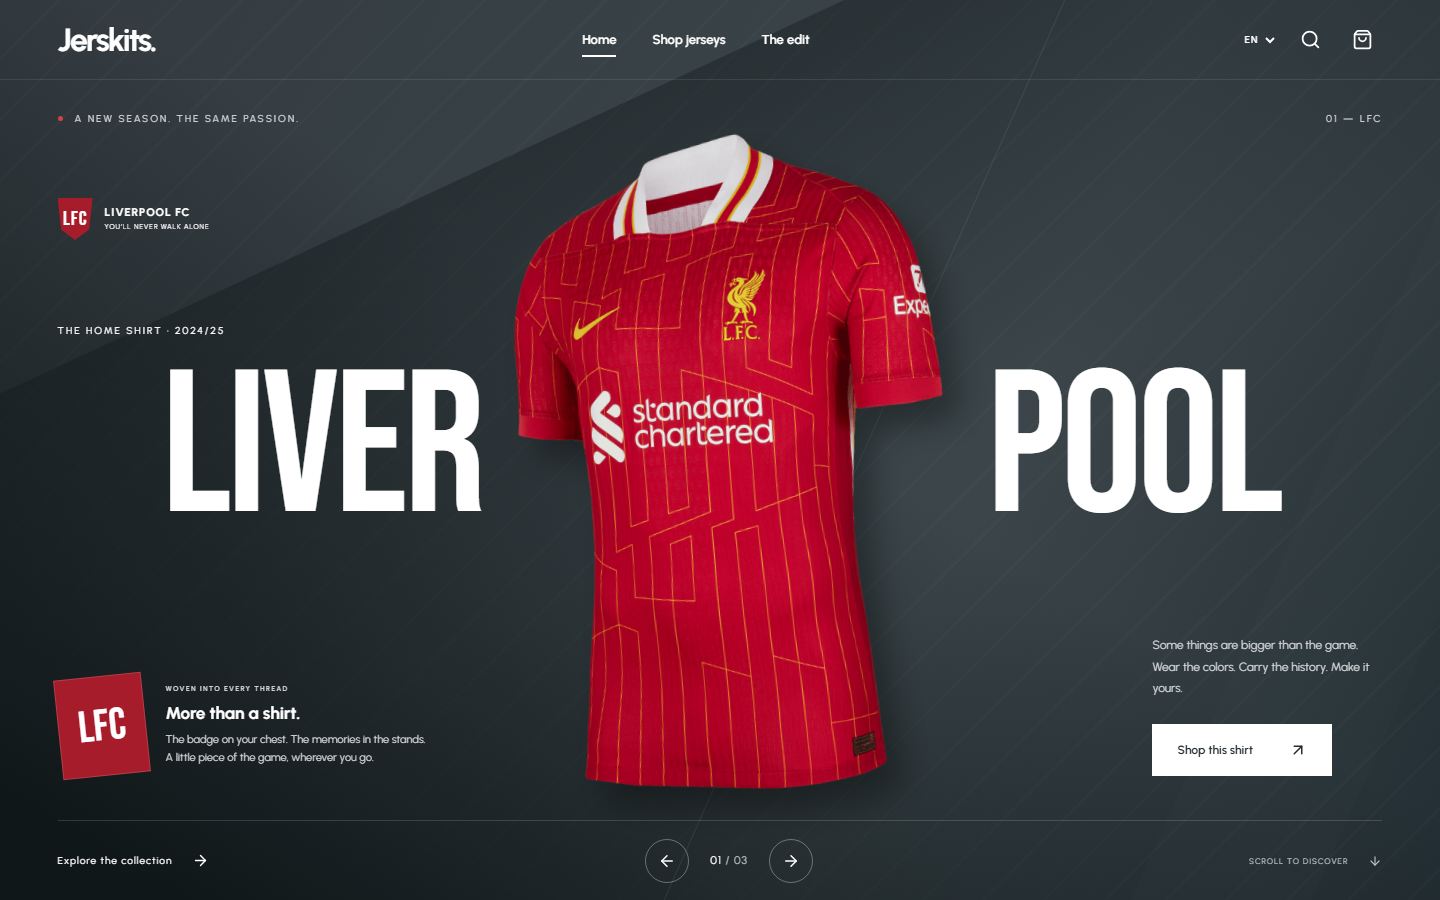
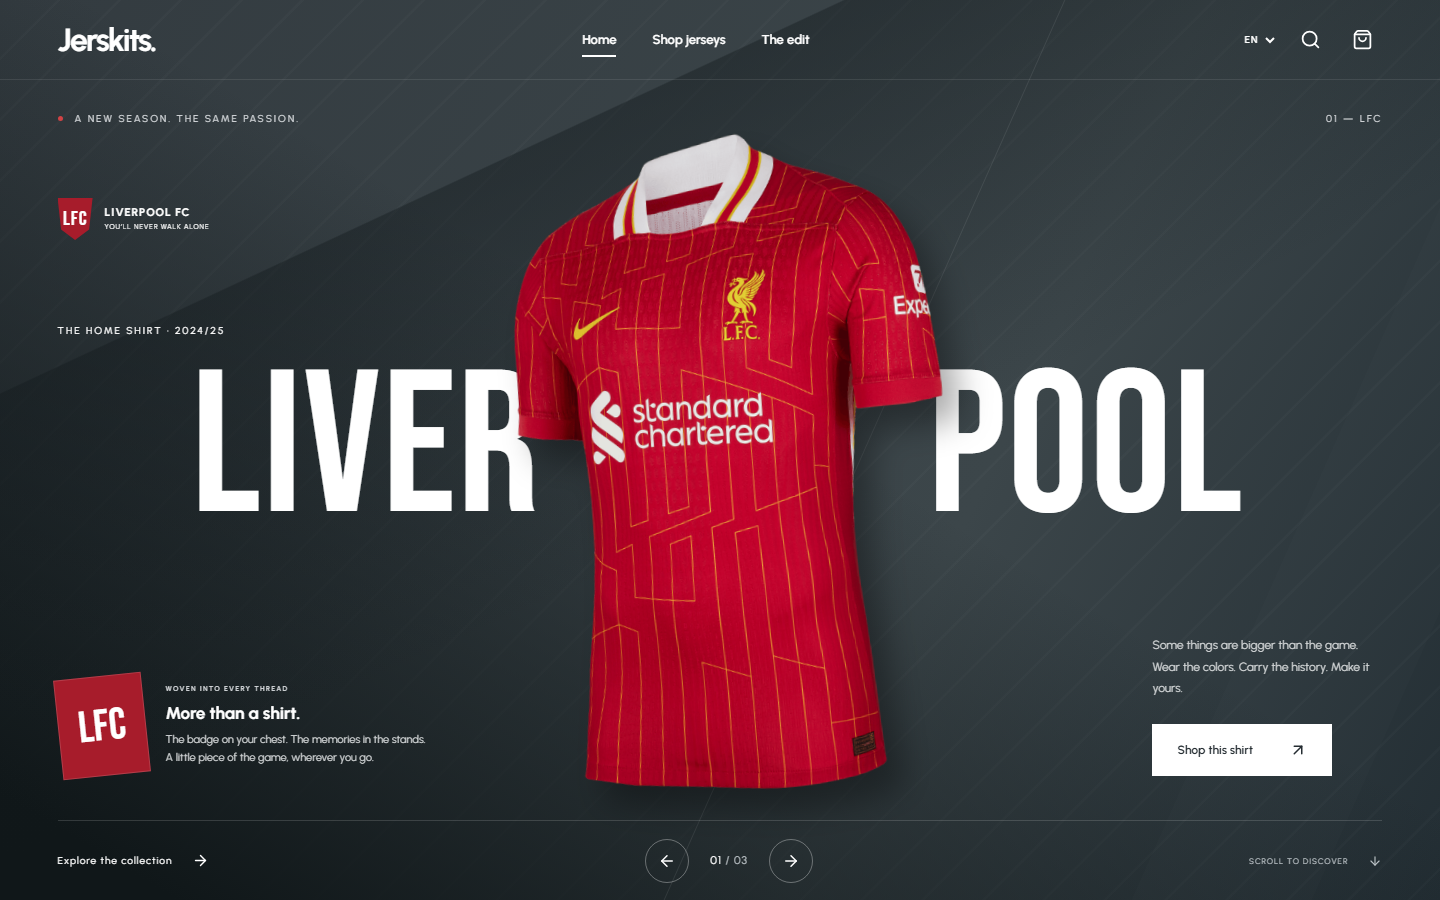
improve(hero): tuck team names behind the shirt sleeves

Changed region(s): [[0.0938, 0.4044, 0.375, 0.5911], [0.625, 0.4044, 0.9062, 0.5911]]

diff --git a/tests/hero-layout.spec.ts b/tests/hero-layout.spec.ts
@@ -21,12 +21,22 @@ async function visibleComposition(page: Page, team: string) {
         range.selectNodeContents(node);
         const rect = range.getBoundingClientRect();
         if (rect.width && rect.height) {
+          const start = node.textContent.search(/\S/);
+          const end = node.textContent.trimEnd().length;
+          range.setStart(node, start);
+          range.setEnd(node, start + 1);
+          const firstLetterWidth = range.getBoundingClientRect().width;
+          range.setStart(node, end - 1);
+          range.setEnd(node, end);
+          const lastLetterWidth = range.getBoundingClientRect().width;
           words.push({
             text: node.textContent.trim(),
             left: rect.left,
             right: rect.right,
             top: rect.top,
             bottom: rect.bottom,
+            firstLetterWidth,
+            lastLetterWidth,
           });
         }
       }
@@ -78,7 +88,7 @@ async function visibleComposition(page: Page, team: string) {
   );
 }
 
-test("a guest can read both complete name blocks beside every featured shirt", async ({
+test("a guest recognizes name blocks tucked closely against each featured shirt", async ({
   page,
 }) => {
   await page.emulateMedia({ reducedMotion: "reduce" });
@@ -98,14 +108,19 @@ test("a guest can read both complete name blocks beside every featured shirt", a
       const { words, shirt } = await visibleComposition(page, team);
       expect(words.map((word) => word.text)).toEqual(parts);
       expect(words[0].left).toBeGreaterThanOrEqual(0);
-      expect(
-        words[0].right,
-        `${team}: left block must clear the shirt`,
-      ).toBeLessThanOrEqual(shirt.left);
-      expect(
-        words[1].left,
-        `${team}: right block must clear the shirt`,
-      ).toBeGreaterThanOrEqual(shirt.right);
+      for (const [side, gap, letterWidth] of [
+        ["left", shirt.left - words[0].right, words[0].lastLetterWidth],
+        ["right", words[1].left - shirt.right, words[1].firstLetterWidth],
+      ] as const) {
+        expect(
+          gap,
+          `${team}: ${side} block must sit close to the shirt`,
+        ).toBeLessThanOrEqual(letterWidth * 0.25);
+        expect(
+          gap,
+          `${team}: at least half of the inner letter must remain visible`,
+        ).toBeGreaterThanOrEqual(-letterWidth * 0.5);
+      }
       expect(words[1].right).toBeLessThanOrEqual(viewport.width);
       await page
         .getByRole("button", { name: "Next shirt", exact: true })

diff --git a/src/components/featured-hero.css b/src/components/featured-hero.css
@@ -135,12 +135,11 @@
 }
 .hero-title-parts {
   display: grid;
-  /* The rotated assets occupy at most 66% of their square image. Reserve
-     a slightly wider middle column, centered on the unchanged shirt. */
+  /* Tuck only the middle-facing letter edges just behind the shirt. */
   grid-template-columns:
-    minmax(0, 1fr) calc(var(--hero-shirt-size) * 0.68)
+    minmax(0, 1fr) calc(var(--hero-shirt-size) * 0.56)
     minmax(0, 1fr);
-  gap: clamp(12px, 1.25vw, 24px);
+  letter-spacing: 0.01em;
   white-space: nowrap;
 }
 .hero-title-parts > :first-child {

diff --git a/.scratch/jerskits-mvp/hero-title-design.md b/.scratch/jerskits-mvp/hero-title-design.md
@@ -5,17 +5,18 @@ Estado: acuerdo completo aceptado por el usuario; implementado y verificado.
 ## Decisiones confirmadas
 
 - El nombre real del equipo debe poder leerse completo en todas las camisetas destacadas.
-- En la composición con dos bloques, cada bloque queda visible a un lado de la camiseta: `LIVER [camiseta] POOL`. La camiseta no puede ocultar ninguna letra.
+- En la composición con dos bloques, cada bloque queda a un lado de la camiseta: `LIVER [camiseta] POOL`. Tras ver la primera versión completa, el usuario pidió acercar los bloques hasta que los bordes de la R y la P pasen apenas detrás de la camiseta, con el mismo criterio para los otros equipos.
+- En el último refinamiento, el usuario aprobó esa dirección y pidió mover ambos bloques un poco más hacia dentro, como si las letras centrales salieran de detrás de las mangas, conservando el espaciado entre letras.
 - En la composición lateral, mantener el tamaño y la posición actuales de la camiseta.
 - El espaciado se adapta al tamaño de pantalla. El usuario delega el ajuste visual al agente; no se ha acordado una distancia fija.
-- Mantener las letras compactas dentro de cada bloque, sin distribuirlas a todo el ancho ni deformarlas. Dejar un pequeño margen entre cada bloque y la camiseta.
+- Abrir ligeramente el espacio entre letras dentro de cada bloque, sin distribuirlas a todo el ancho ni deformarlas. Reducir el hueco central hasta el contorno de la camiseta.
 - Divisiones aprobadas: `LIVER [camiseta] POOL`, `BARCE [camiseta] LONA` y `BRA [camiseta] ZIL`.
 - Cuando no quepan los bloques laterales completos y legibles, mostrar el nombre completo en una línea encima de la camiseta. Se permite ajustar la composición móvil, incluida la posición de la camiseta, para lograrlo.
 
 ## Criterios de aceptación
 
-- Las letras de ambos bloques son visibles íntegramente; estar detrás de la camiseta como capa no autoriza a ocultar ninguna letra.
-- El hueco central reserva el espacio visual que ocupa la camiseta a la altura del nombre, más un pequeño margen. No se resuelve simplemente añadiendo un hueco fijo al texto centrado.
+- El nombre sigue siendo reconocible y solo se permite un leve solapamiento en el borde de las letras centrales. Esta petición posterior sustituye al requisito anterior de no ocultar ninguna parte de las letras.
+- El hueco central sigue la escala de la camiseta, permitiendo ese pequeño solapamiento. No se resuelve simplemente añadiendo un hueco fijo al texto centrado.
 - El nombre no tiene que llegar hasta las esquinas ni llenar el ancho de la pantalla.
 - En móvil, el nombre completo queda separado de la camiseta y de los demás textos, sin recortes ni desbordamiento horizontal.
 - La composición conserva la portada en el primer viewport, con las flechas y el enlace a la camiseta visibles, y mantiene el menú transparente.
@@ -29,13 +30,13 @@ Estado: acuerdo completo aceptado por el usuario; implementado y verificado.
 
 ## Resultado
 
-- En escritorio, los bloques reservan el espacio de la silueta y se mantienen completamente visibles. En pantallas estrechas, el nombre se presenta entero encima de la camiseta.
+- En escritorio, los bloques se acercan a la silueta con un leve solapamiento de las letras centrales y un poco más de espacio entre letras. En pantallas estrechas, el nombre sigue entero encima de la camiseta.
 - En móvil horizontal de poca altura, nombre completo arriba y camiseta y enlace de compra en columnas separadas, con cabecera y controles compactos.
 - Tipos y build correctos; suite completa de 34 pruebas aprobadas, incluyendo regresiones de distribución en las tres camisetas y controles dentro del viewport.
 - [Revisión y evidencia](hero-title-review.md).
 
 ## Problema de las versiones anteriores
 
-Distribuir letras a todo el ancho produjo demasiado espacio entre ellas. Agruparlas con un hueco central fijo tampoco resolvió el objetivo: la camiseta siguió ocultando letras. La siguiente implementación debe reservar espacio para la camiseta y los bloques completos, en lugar de aceptar su superposición visual.
+Distribuir letras a todo el ancho produjo demasiado espacio entre ellas. Agruparlas con un hueco central fijo ocultó demasiadas letras. Reservar después la silueta completa con un margen adicional dejó los bloques demasiado separados; la petición más reciente permite acercar solo sus bordes centrales ligeramente detrás de la camiseta.
 
 Esta es una decisión visual reversible; no requiere un ADR ni introduce términos nuevos del dominio comercial en el glosario.

diff --git a/.scratch/jerskits-mvp/hero-title-review.md b/.scratch/jerskits-mvp/hero-title-review.md
@@ -24,3 +24,17 @@ Resumen por eje: Standards, cero hallazgos; Spec, un P2 resuelto y cero pendient
 - Las pruebas nuevas fallaron antes de las correcciones por letras ocultas, ausencia del nombre completo superior y camiseta sin altura en horizontal.
 - Capturas revisadas de Liverpool, Barcelona y Brasil a 1440×900, 2048×1050, 1024×768, 1001×900, 1000×900, 768×900, 768×600, 844×390, 568×320, 390×844, 390×667 y 320×568. La captura terminó sin errores de ejecución.
 - [Escritorio](preview-desktop.png) y [móvil](preview-mobile.png).
+
+## Refinamiento posterior: texto junto al contorno
+
+Base de este ajuste: `503da2b`. El usuario pidió reducir el espacio entre los bloques y la camiseta, permitiendo que los bordes de la R y la P pasen ligeramente por detrás, y abrir un poco el espacio entre letras. Esta petición sustituye el criterio previo de separación completa.
+
+### Standards
+
+Sin hallazgos materiales en la revisión independiente. El cambio de estilo se limita a los bloques laterales; se conserva el nombre accesible, la geometría de la camiseta y la composición móvil.
+
+### Spec
+
+Sin hallazgos en la revisión independiente. El nuevo hueco central y el espaciado corresponden al ajuste solicitado. El usuario pidió después un pequeño avance adicional detrás de las mangas, conservando el espaciado entre letras. Las comprobaciones de navegador limitan tanto la separación como el solapamiento respecto al ancho de las letras centrales, conservando al menos la mitad de su ancho fuera de la silueta global.
+
+Resumen por eje del refinamiento: Standards, cero hallazgos; Spec, cero hallazgos.

diff --git a/.scratch/jerskits-mvp/review.md b/.scratch/jerskits-mvp/review.md
@@ -63,3 +63,5 @@ Resumen por eje: Standards, tres hallazgos no bloqueantes resueltos; Spec, un ha
 ## Nombre completo junto a la camiseta
 
 Tras la entrevista, se acordó que ninguna letra quedara oculta: bloques compactos completos a los lados en escritorio y nombre entero encima en pantallas estrechas. El [acuerdo aceptado](hero-title-design.md) y la [revisión de esta corrección](hero-title-review.md) registran la decisión, el P2 horizontal resuelto y la evidencia. La suite completa actual contiene **34 pruebas aprobadas**. Las capturas de escritorio y móvil enlazadas arriba muestran esta versión.
+
+Después de ver esa versión, el usuario pidió acercar los bloques al contorno y permitir un leve solapamiento de las letras centrales, con un poco más de espacio entre letras. El acuerdo y las pruebas recogen esta modificación posterior; ambas revisiones la aprobaron sin hallazgos materiales.
